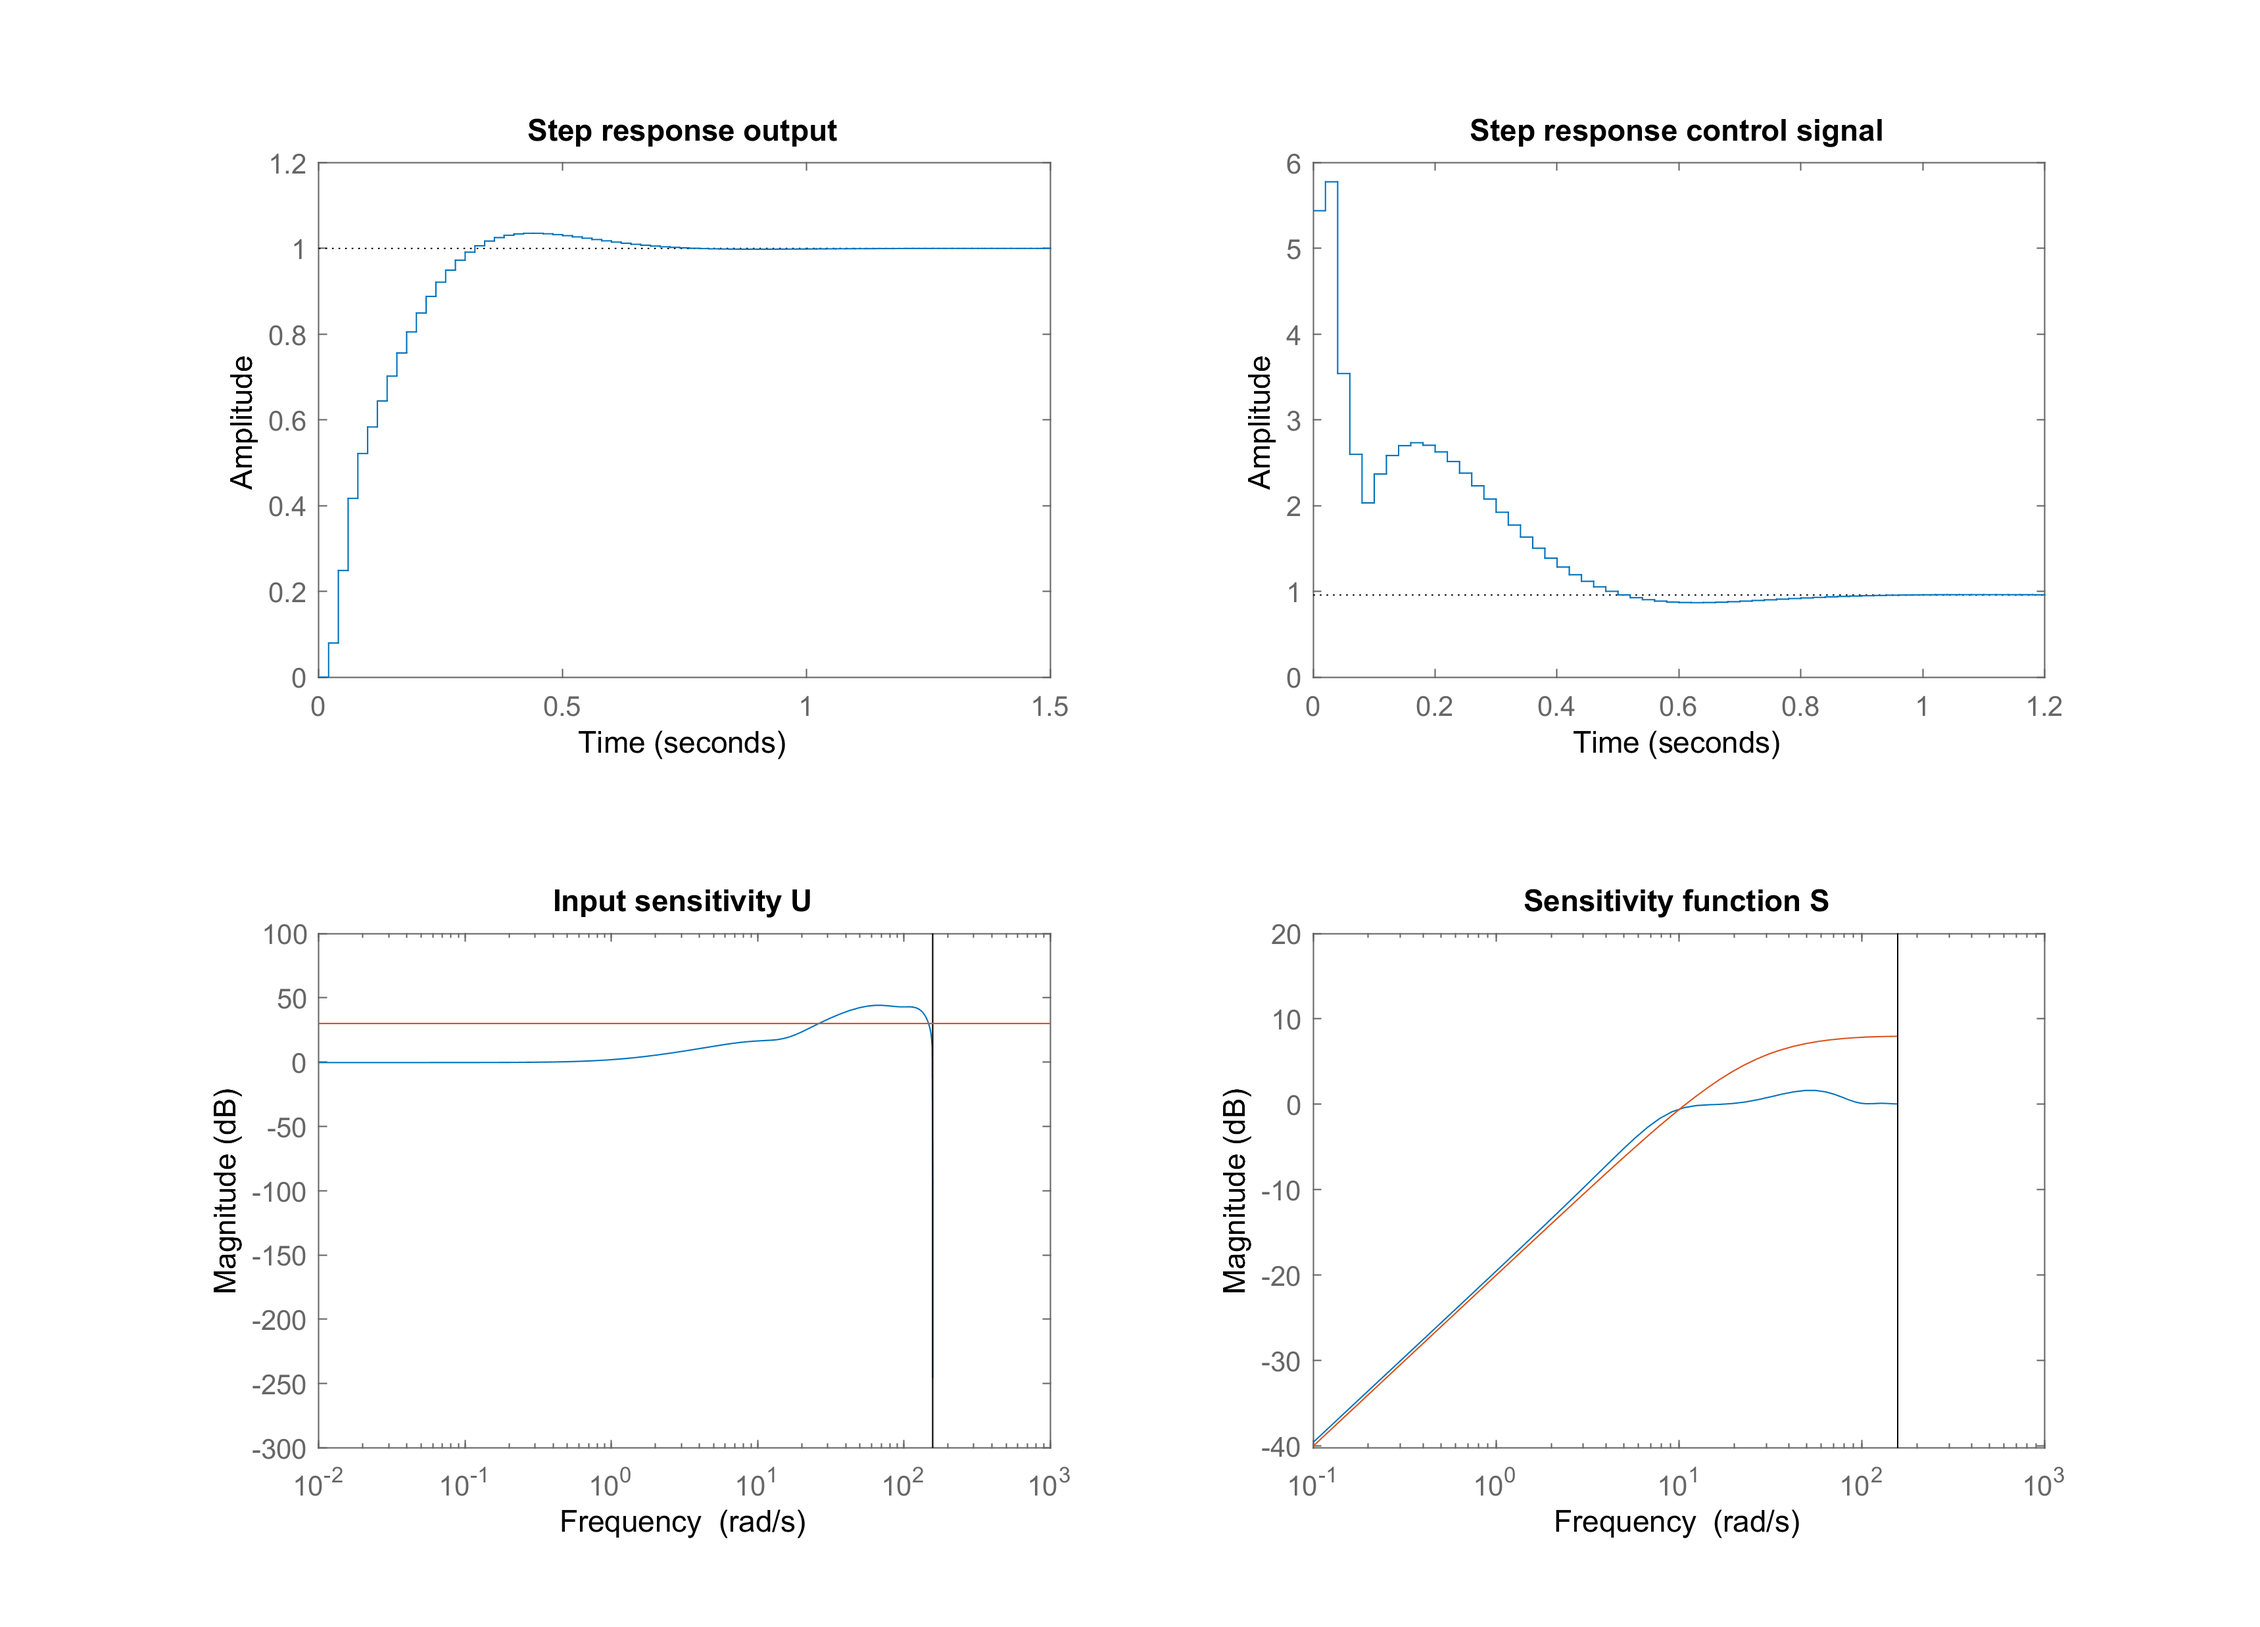
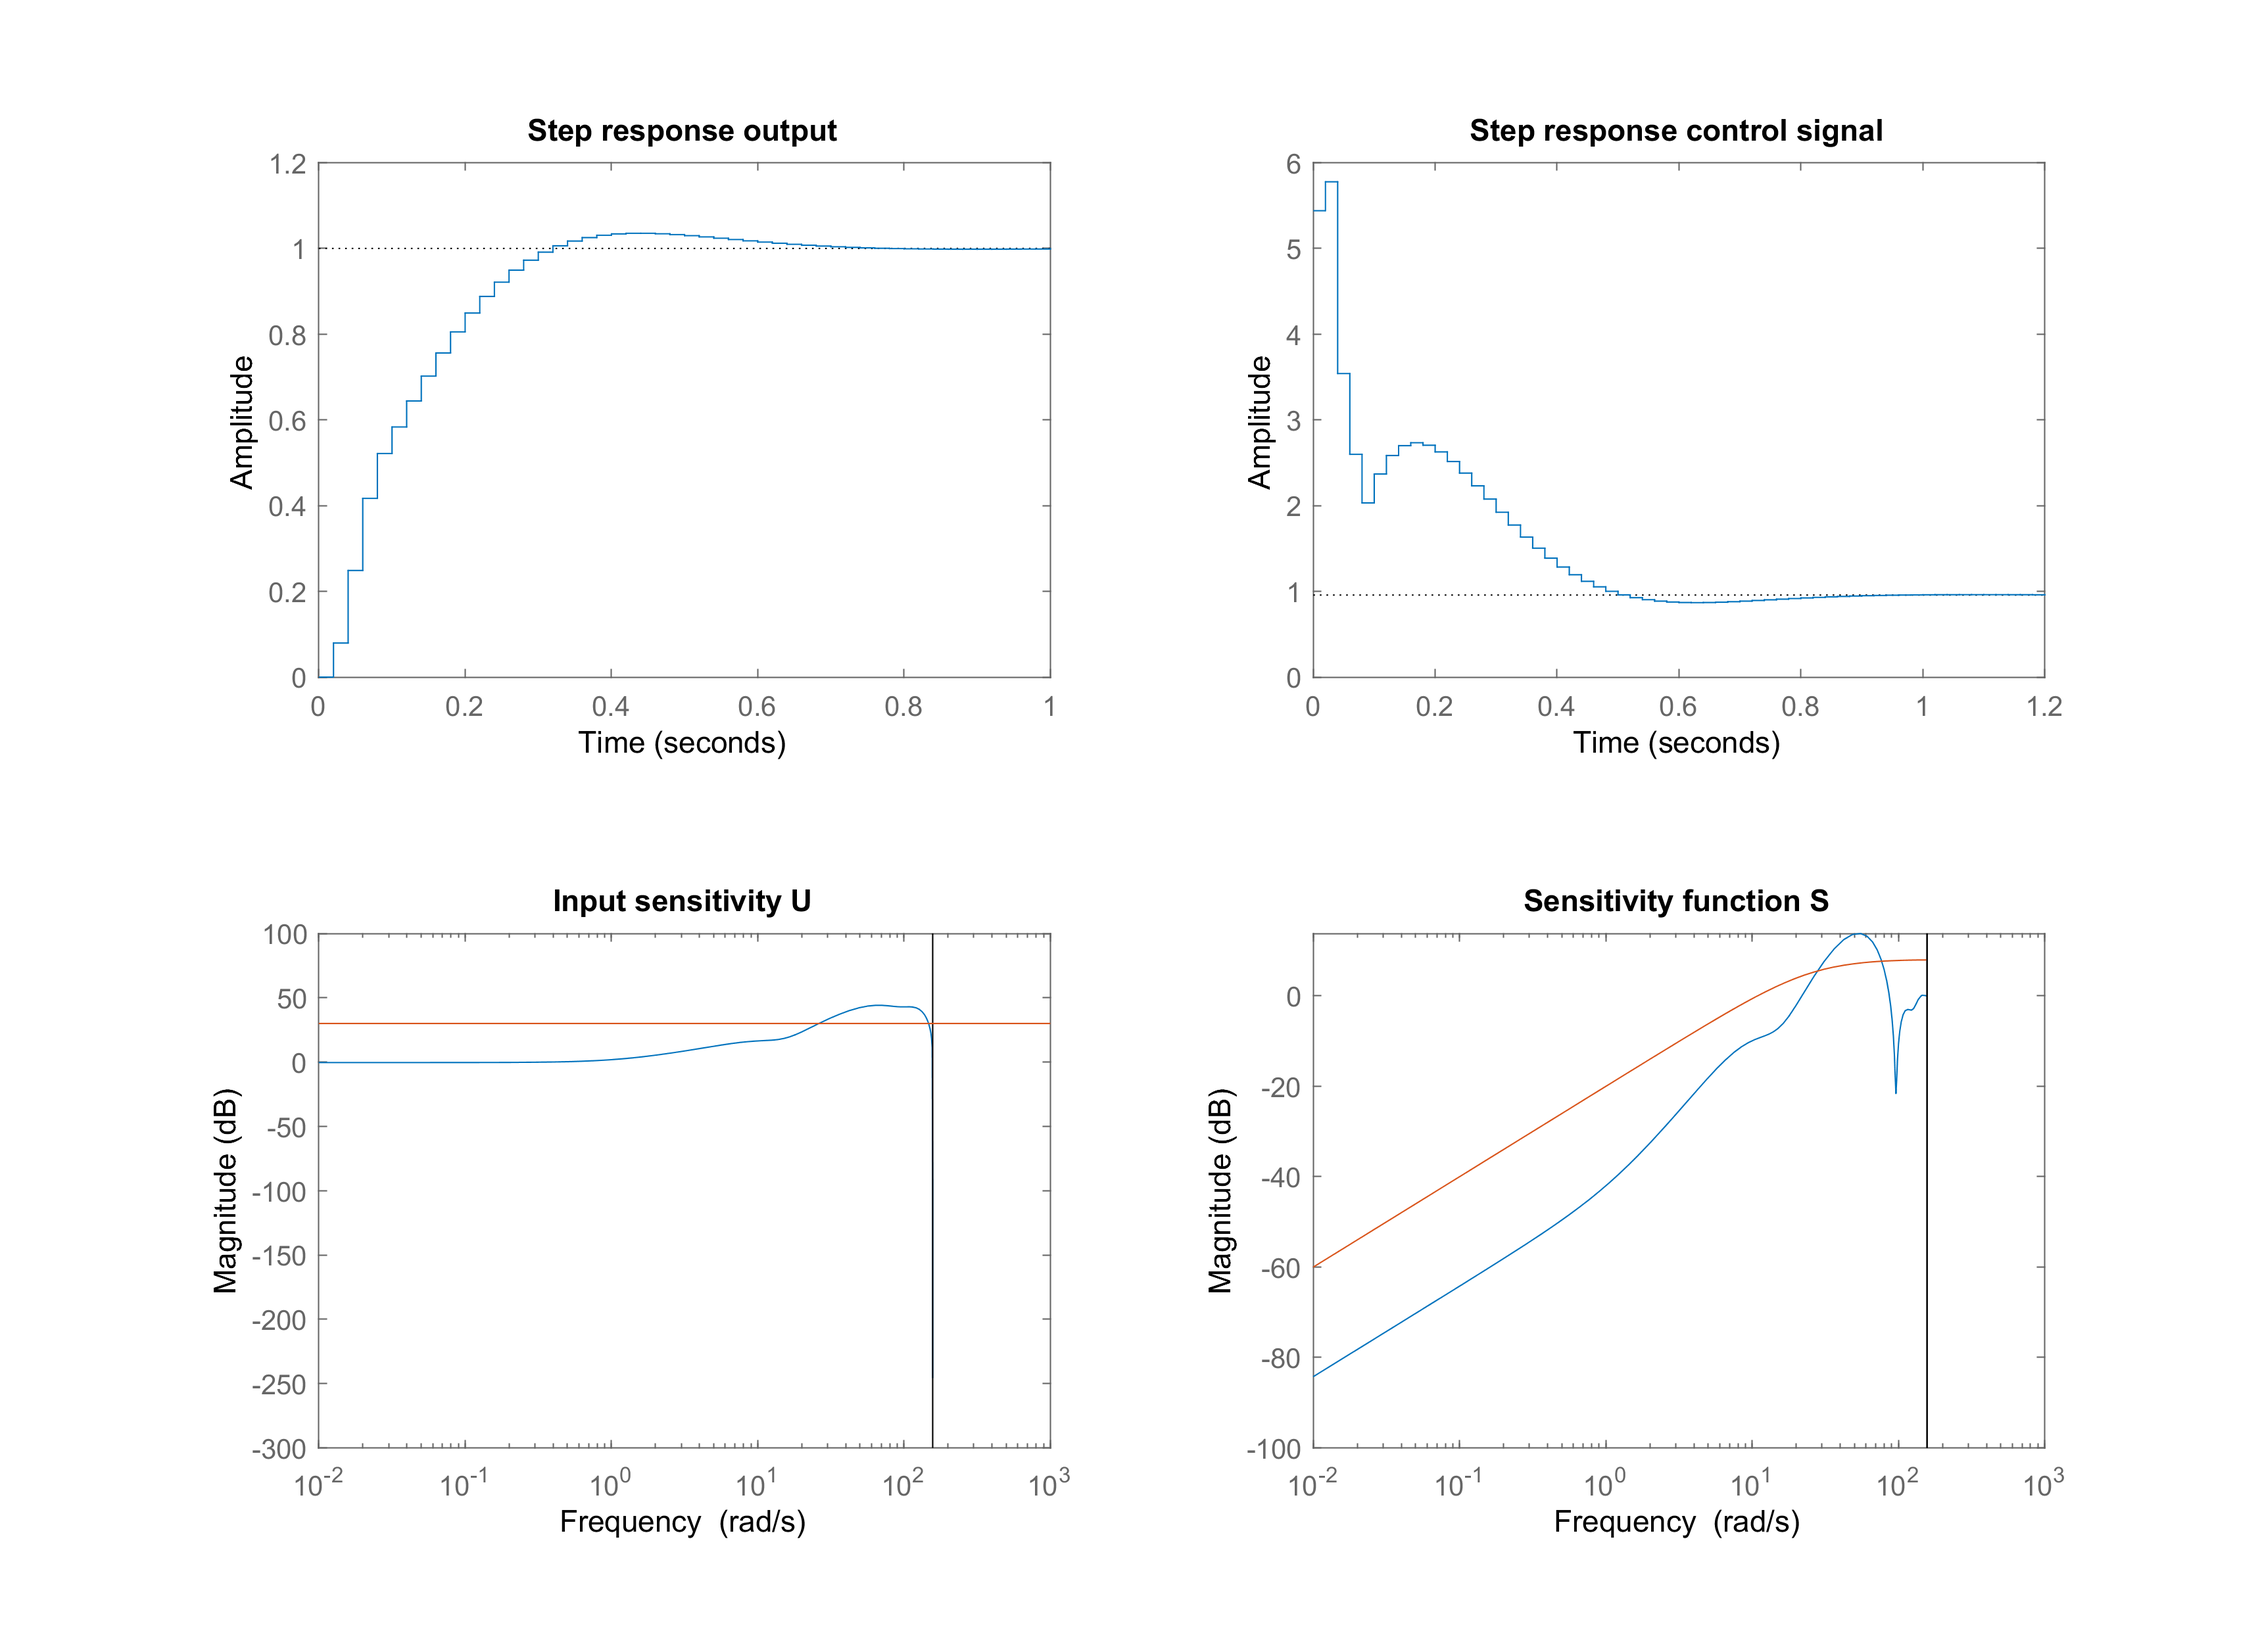
Iz isch aber de wük fertig

diff --git a/CE3/CE3_2.m b/CE3/CE3_2.m
@@ -11,8 +11,8 @@ W1 = c2d((s+20)*0.5/ (s+0.00001),Ts);
 %W1 = 0.5;
 W3 = 1/5*tf([1] ,[1]);
 
-Hr= [1 1]
-Hs= [1 -1]
+Hr= [1 1];
+Hs= [1 -1];
 
 %% Extracting the coefficients of the polynomials A & B
 
@@ -45,9 +45,12 @@ CL=tf(conv(R,B),P,Ts,'variable','z^-1');
 CL1=tf(conv(R,B1),P1,Ts,'variable','z^-1');
 CL3=tf(conv(R,B3),P3,Ts,'variable','z^-1');
 
-stepinfo(CL)
-stepinfo(CL1)
-stepinfo(CL3)
+CL_bigLoop=tf(conv(T,B),P,Ts,'variable','z^-1');
+CL1_bigLoop=tf(conv(T,B1),P1,Ts,'variable','z^-1');
+CL3_bigLoop=tf(conv(T,B3),P3,Ts,'variable','z^-1');
+stepinfo(CL_bigLoop)
+stepinfo(CL1_bigLoop)
+stepinfo(CL3_bigLoop)
 
 Sensitivity1=1-CL1;
 Sensitivity=1-CL;
@@ -62,8 +65,8 @@ U_sens3=tf(conv(A3,R),P3,Ts,'variable','z^-1');
 %%
 figure;
 subplot(2,2,1)
-step(CL,CL1,CL3)
-axis([0 1 0 1.2])
+step(CL_bigLoop,CL1_bigLoop,CL3_bigLoop)
+axis([0 1 0 1.5])
 title('Step response output')
 
 subplot(2,2,2)

diff --git a/CE3/CE3_1.m b/CE3/CE3_1.m
@@ -56,9 +56,10 @@ T=sum(R)
 %be to slow down the poles. But there we have not a lot of margin as the
 %settling time is 0.58<0.6s just slightly below the constraint -> hence we
 %need Q parametrisation
-CL=tf(conv(T,B),P',Ts,'variable','z^-1');
+CL=tf(conv(R,B)',P',Ts,'variable','z^-1');
+CL_bigLoop=tf(conv(T,B),P',Ts,'variable','z^-1');
 
-stepinfo(CL)
+stepinfo(CL_bigLoop)
 
 Sensitivity=1-CL;
 
@@ -67,8 +68,8 @@ U=tf(conv(A,T),P',Ts,'variable','z^-1');
 
 figure(1)
 subplot(2,2,1)
-step(CL)
-axis([0 1.5 0 1.2])
+step(CL_bigLoop)
+axis([0 1 0 1.2])
 title('Step response output')
 
 subplot(2,2,2)
